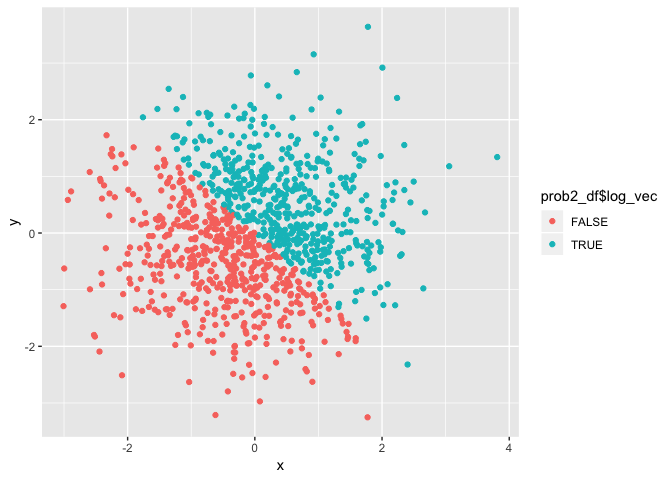
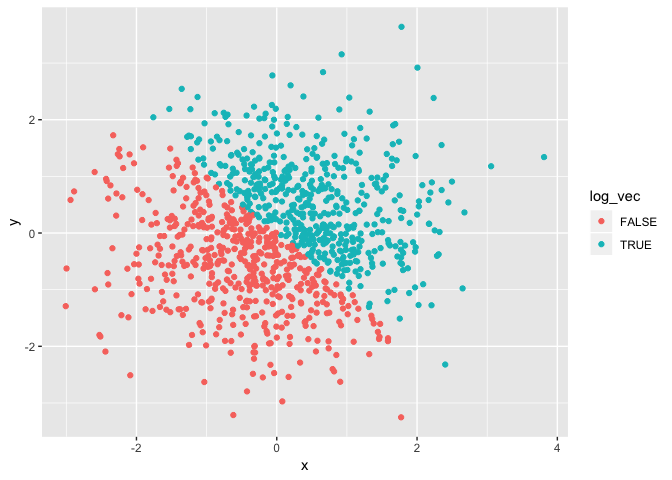
Making final edits to my markdown document

diff --git a/HW1.md b/HW1.md
@@ -2,14 +2,14 @@ Homework 1
 ================
 
 Sept 21, 2018
--------------
 
 Francois Ban
-------------
 
 ### Problem 1
 
 Below is a dataframe containing four different vectors:
+
+A random sample of size 10 from a uniform\[0, 5\] distribution A logical vector indicating whether elements of the sample are greater than 2 A (length-10) character vector A (length-10) factor vector
 
 ``` r
 prob1_df = tibble(
@@ -23,27 +23,40 @@ prob1_df = tibble(
 Below is the mean of each variable in the dataframe (prob1\_df).
 
 ``` r
-mean_rand_samp <- mean(prob1_df$rand_samp)
-mean_log_vec <- mean(prob1_df$log_vec)
-mean_char_vec <- mean(prob1_df$char_vec)
+mean(prob1_df$rand_samp)
+```
+
+    ## [1] 2.757569
+
+``` r
+mean(prob1_df$log_vec)
+```
+
+    ## [1] 0.6
+
+``` r
+mean(prob1_df$char_vec)
 ```
 
     ## Warning in mean.default(prob1_df$char_vec): argument is not numeric or
     ## logical: returning NA
 
+    ## [1] NA
+
 ``` r
-mean_fac_vec <- mean(prob1_df$fac_vec)
+mean(prob1_df$fac_vec)
 ```
 
     ## Warning in mean.default(prob1_df$fac_vec): argument is not numeric or
     ## logical: returning NA
 
-After taking the mean of each variable in my dataframe, it is evident that mean\_rand\_samp and mean\_log\_vec works because the arguments are numeric whereas mean\_char\_vec and mean\_fac\_vec are not.
+    ## [1] NA
 
-Bellow is a code chunk that applies the as.numeric function to the logical, character, and factor variables.
+After taking the mean of each variable in my dataframe, it is evident that we cannot take the mean of character vectors and factor vectors because the arguments are not numeric values.
+
+Below is a code chunk that applies the as.numeric function to the logical, character, and factor variables.
 
 ``` r
-as.numeric(prob1_df$rand_samp)
 as.numeric(prob1_df$log_vec)
 as.numeric(prob1_df$char_vec)
 as.numeric(prob1_df$fac_vec)
@@ -54,14 +67,14 @@ It is not possible to convert a character variable to a numeric vector which is 
 In this code chunk, the character variable (char\_vec) is converted from character to factor to numeric; similarly, convert my factor variable (fac\_vec) is converted from factor to character to numeric.
 
 ``` r
-char_to_fac <- as.factor(prob1_df$char_vec)
+char_to_fac = as.factor(prob1_df$char_vec)
 as.numeric(char_to_fac)
 ```
 
     ##  [1]  1  2  3  4  5  6  7  8  9 10
 
 ``` r
-fac_to_char <- as.character(prob1_df$fac_vec)
+fac_to_char = as.character(prob1_df$fac_vec)
 as.numeric(fac_to_char)
 ```
 
@@ -69,11 +82,13 @@ as.numeric(fac_to_char)
 
     ##  [1] NA NA NA NA NA NA NA NA NA NA
 
-It is possible to convert a character vector to a factor vector to a numeric vector but it is not possible to convert a factor vector to a character vector to a numeric vector.
+Converting a character vector to a factor vector assigns a numeric category which is why this can turn into a numeric vector. However, when converting factor vector to character vector, there is no numeric significance and therefore outputs NA when changing factor vector to numeric vector.
 
 ### Problem 2
 
 Below is a dataframe for Problem 2:
+
+x: a random sample of size 1000 from a standard Normal distribution y: a random sample of size 1000 from a standard Normal distribution A logical vector indicating whether the x + y &gt; 0 A numeric vector created by coercing the above logical vector A factor vector created by coercing the above logical vector
 
 ``` r
 set.seed(1)
@@ -87,13 +102,13 @@ prob2_df = tibble(
 )
 ```
 
-My vector created above has a dataset size of 5columns and 1000rows, a mean of -0.0116481, a median of -0.0353242, and a proportion of cases 0.49.
+My vector created above has a dataset size of 5 columns and 1000 rows, a mean of -0.0116481, a median of -0.0353242, and a proportion of cases (i.e. TRUE) as 0.49.
 
 Below is a scatterplot of x and y that colors the points based on the logical variable:
 
 ``` r
-plot_1 = ggplot(prob2_df, aes(x = x, y = y)) +
-  geom_point(aes(color = prob2_df$log_vec))
+plot_1 = ggplot(prob2_df, aes(color = log_vec, x = x, y = y)) +
+  geom_point()
 plot_1
 ```
 
@@ -104,8 +119,8 @@ The red points are the x and y values that do not meet the log\_vec statement (F
 Below is a scatterplot of x and y that colors the points based on the numeric variable:
 
 ``` r
-plot_2 = ggplot(prob2_df, aes(x = x, y = y)) +
-  geom_point(aes(color = prob2_df$num_vec))
+plot_2 = ggplot(prob2_df, aes(color = num_vec, x = x, y = y)) +
+  geom_point()
 plot_2
 ```
 
@@ -114,12 +129,14 @@ plot_2
 Below is a scatterplot of x and y that colors the points based on the factor variable:
 
 ``` r
-plot_3 = ggplot(prob2_df, aes(x = x, y = y)) +
-  geom_point(aes(color = prob2_df$fac_vec,))
+plot_3 = ggplot(prob2_df, aes(color = fac_vec, x = x, y = y)) +
+  geom_point()
 plot_3
 ```
 
-![](HW1_files/figure-markdown_github/sp_fac_vec-1.png) The blue points represent when fac\_vec = TRUE and the red points represent when fac\_vec = FALSE. This scale is different from the numeric scatterplot (sp\_num\_vec) because there are only a set of values that fac\_vec can take (in this case, TRUE or FALSE) whereas there are an infinite number of values that a numeric vector can take.
+![](HW1_files/figure-markdown_github/sp_fac_vec-1.png)
+
+The blue points represent when fac\_vec = TRUE and the red points represent when fac\_vec = FALSE. This scale is different from the numeric scatterplot (sp\_num\_vec) because there are only a set of values that fac\_vec can take (in this case, TRUE or FALSE) whereas there are an infinite number of values that a numeric vector can take.
 
 Exporting the first scatterplot (plot\_1) to my project directory.
 
